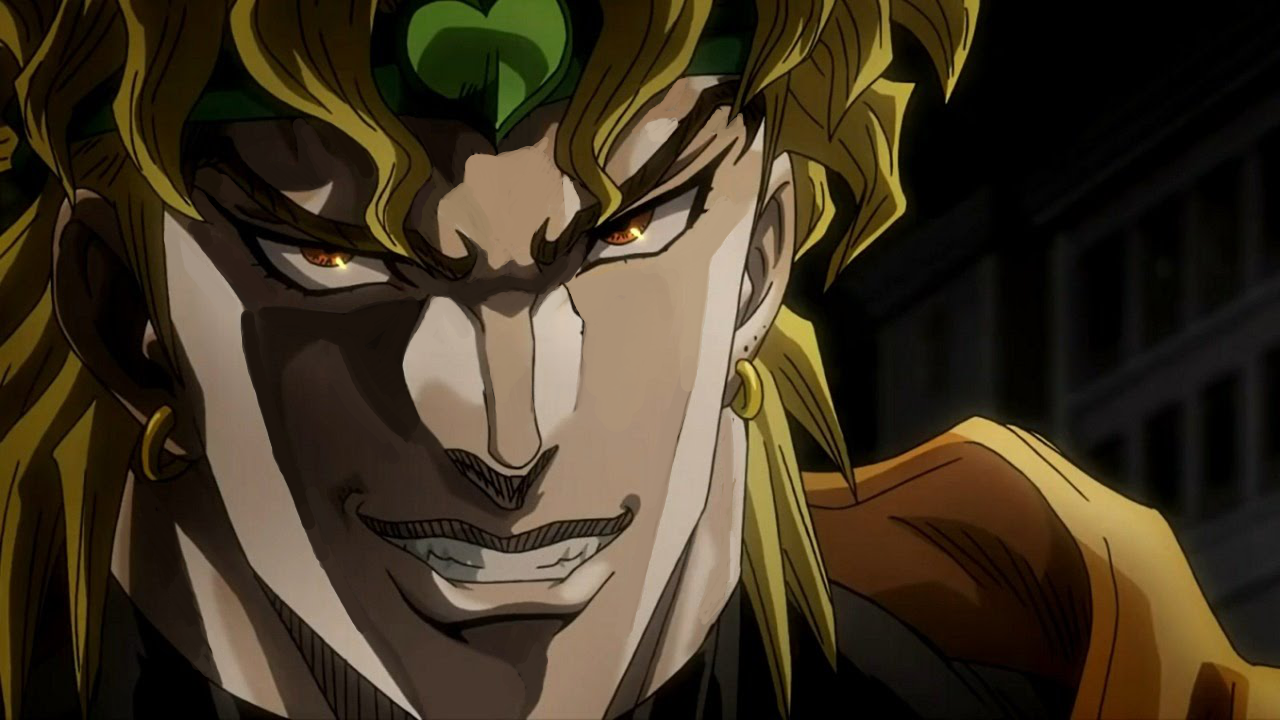
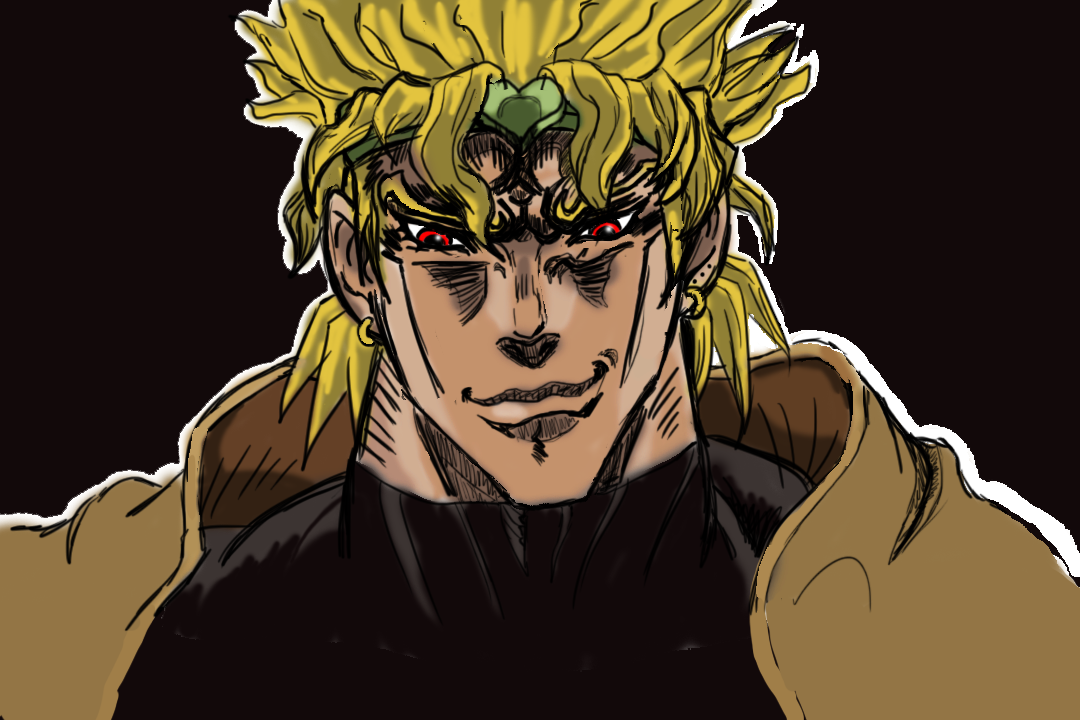
Baby we jojo's now.

diff --git a/src/scenes/game.js b/src/scenes/game.js
@@ -49,7 +49,7 @@ class Game extends Phaser.Scene {
         keyJ = this.input.keyboard.addKey(Phaser.Input.Keyboard.KeyCodes.J);
 
         // creating player object
-        this.player = new Player(this, this.playerSpriteInfo.width/2, this.middleSpawnY, spriteAtlasName, 'sprite5').setScale(scale).setOrigin(0.5).setDepth(2);
+        this.player = new Player(this, this.playerSpriteInfo.width, this.middleSpawnY, spriteAtlasName, 'sprite5').setScale(scale).setOrigin(0.5).setDepth(2);
         //create background
         this.background = this.add.tileSprite(0, uiSizeY, 1080, 720, 'ER_FantasyRugby_Background_v2').setOrigin(0).setDepth(0);
         this.add.tileSprite(0, 0, 270, 20, 'scoreboard').setOrigin(0).setDepth(0).setScale(4);
@@ -94,7 +94,7 @@ class Game extends Phaser.Scene {
         let difficultyBump = this.time.addEvent({
             delay: 10000,
             callback : () => {
-                //this.difficultyLevel++;
+                this.difficultyLevel++;
                 console.log("Difficulty increased");
                 this.playerCoolDown -= 50;
                 this.obstacleSpawn.delay -= 150;
@@ -125,15 +125,27 @@ class Game extends Phaser.Scene {
 
         this.anims.create({
             key: 'Run',
-            defaultTextureKey: spriteAtlasName,
-            frames: [{frame: 'sprite5'}],
+            defaultTextureKey: mainAtlas,
+            frames: [
+                {frame: 'JojoRun1'},
+                {frame: 'JojoRun2'},
+                {frame: 'JojoRun3'},
+                {frame: 'JojoRun4'},
+                {frame: 'JojoRun5'},
+                {frame: 'JojoRun6'},
+            ],
+            frameRate: 12,
             repeat: -1.
         });
 
         this.anims.create({
             key: 'stand_cooldown',
-            defaultTextureKey: spriteAtlasName,
-            frames: [{frame: 'sprite7'}],
+            defaultTextureKey: mainAtlas,
+            frames: [
+                {frame: 'StandRech1'},
+                {frame: 'StandRech2'},
+                {frame: 'StandRech3'},
+            ],
             duration: this.playerCoolDown,
         })
 
@@ -145,9 +157,57 @@ class Game extends Phaser.Scene {
 
         this.anims.create({
             key: 'stand_idle',
-            defaultTextureKey: spriteAtlasName,
-            frames: [{frame: 'sprite1'}]
-        })
+            defaultTextureKey: mainAtlas,
+            frames: [{frame: 'StandRech3'}]
+        });
+
+        this.anims.create({
+            key: 'Muda',
+            defaultTextureKey: mainAtlas,
+            frames: [
+                {frame: 'DioWalk1'},
+                {frame: 'DioWalk2'},
+                {frame: 'DioWalk3'},
+                {frame: 'DioWalk4'},
+                {frame: 'DioWalk5'},
+                {frame: 'DioWalk6'},
+                {frame: 'DioWalk7'},
+            ],
+            frameRate: 12,
+            repeat: -1,
+        });
+
+        this.anims.create({
+            key: 'The World',
+            defaultTextureKey: mainAtlas,
+            frames: [
+                {frame: 'DioDeath1'},
+                {frame: 'DioDeath2'},
+                {frame: 'DioDeath3'},
+                {frame: 'DioDeath4'},
+                {frame: 'DioDeath5'},
+                {frame: 'DioDeath6'},
+                {frame: 'DioDeath7'},
+                {frame: 'DioDeath8'},
+            ],
+            frameRate: 12,
+        });
+
+        this.anims.create({
+            key: 'OH NO',
+            defaultTextureKey: mainAtlas,
+            frames: [
+                {frame: 'JojoDie1'},
+                {frame: 'JojoDie2'},
+                {frame: 'JojoDie3'},
+                {frame: 'JojoDie4'},
+                {frame: 'JojoDie5'},
+                {frame: 'JojoDie6'},
+                {frame: 'JojoDie7'},
+                {frame: 'JojoDie8'},
+            ],
+            frameRate: 4,
+        });
 
         //changes that happen on death do not need to be updated often
         if (this.gameOver && (this.player.x > centerX + 4 || this.player.x < centerX - 4)) {
@@ -161,7 +221,9 @@ class Game extends Phaser.Scene {
             //update playerobject
             this.player.update();
             //if player gets hit
-            this.physics.world.collide(this.player, this.obstacleGroup, this.destroyPlayer, null, this);
+            this.physics.world.collide(this.player, this.obstacleGroup, this.destroyPlayer, (object1, object2) => {
+                return object2.canCollide;
+            }, this);
             //if the player fired
             if (this.player.projectile.fired == true) {
                 this.physics.world.collide(this.player.projectile, this.obstacleGroup, this.destroyObstacle, null, this);
@@ -175,14 +237,15 @@ class Game extends Phaser.Scene {
             if (this.player.y < game.config.height - (this.playerSpriteInfo.height * 2) - 4 || this.player.y > game.config.height - (this.playerSpriteInfo.height * 2) + 4) {
                 this.player.y += 7*this.playerSlope.y;
             } else if (this.player.x <= centerX + 4 && this.player.x >= centerX - 4){
-                //insert check to see if death animation is done before executing the rest of the tasks in this block. SHOULD FIX
-                this.background.setAlpha(1.0); //spotlight call
-                if (this.alphaValue < 0.15) {
-                    this.alphaValue += 0.001;
-                    this.restartGame();
-                }
-                if (keyJ.isDown) { //consider taking this outide of the else if chain so the user can skip the death screen.
-                    this.scene.restart();
+                if (!this.player.anims.isPlaying) {
+                    this.background.setAlpha(1.0); //spotlight call
+                    if (this.alphaValue < 0.15) {
+                        this.alphaValue += 0.001;
+                        this.restartGame();
+                    }
+                    if (keyJ.isDown) { //consider taking this outide of the else if chain so the user can skip the death screen.
+                        this.scene.restart();
+                    }
                 }
             }
         }
@@ -257,7 +320,9 @@ class Game extends Phaser.Scene {
     //object1 and object2 passed from phaser collision handler
     destroyObstacle(object1, object2) {
         this.hitEffect.play();
-        object2.destroy();
+        //object2.disableBody();
+        object2.canCollide = false;
+        object2.anims.play('The World');
         this.playerCoolDown = defaultCoolDown;
         object1.anims.play('stand_cooldown');
         object1.resetProjectile();
@@ -275,7 +340,7 @@ class Game extends Phaser.Scene {
         this.obstacleGroup.clear(true, true);
         this.background.destroy();
         this.background = this.add.tileSprite(0, uiSizeY, 1080, 720, 'Spotlight').setOrigin(0, 0).setAlpha(0.0).setDepth(0);
-        this.player.setScale(scale);
+        this.player.setScale(scale + 0.5);
 
         //calculating slope of line to center for game over.
         this.playerSlope = {
@@ -286,13 +351,13 @@ class Game extends Phaser.Scene {
             (this.playerSlope.y * this.playerSlope.y));
         this.playerSlope.x = this.playerSlope.x / magnitude;
         this.playerSlope.y = this.playerSlope.y / magnitude;
-        //Start death animation here
+        this.player.anims.play('OH NO')
     }
 
     restartGame() {
-        this.add.text(centerX , centerY , 'GAME OVER' , scoreConfig).setOrigin(.5).setDepth(2).setAlpha(this.alphaValue);
-        this.add.text(centerX , centerY + 64 , '(J) to Restart' , scoreConfig).setOrigin(.5).setDepth(2).setAlpha(this.alphaValue);
-        //this.add.tileSprite(0, uiSizeY, 1080, 720, 'dio').setOrigin(0).setAlpha(this.alphaValue/50).setDepth(1);
+        this.add.text(centerX , centerY - 100 , 'GAME OVER' , scoreConfig).setOrigin(.5).setDepth(2).setAlpha(this.alphaValue);
+        this.add.text(centerX , centerY - 36 , '(J) to Restart' , scoreConfig).setOrigin(.5).setDepth(2).setAlpha(this.alphaValue);
+        this.add.tileSprite(0, uiSizeY, 1080, 720, 'dio').setOrigin(0).setAlpha(this.alphaValue/50).setDepth(1);
     }
 }
 

diff --git a/src/scenes/menu.js b/src/scenes/menu.js
@@ -9,6 +9,7 @@ class Menu extends Phaser.Scene {
         // this.load.audio('sfx_select', './assets/blip_select12.wav');
         this.load.path = './assets/';
         this.load.atlas(spriteAtlasName, 'spritesheet_1.png', 'sprites_3.json');
+        this.load.atlas(mainAtlas, 'allSprites.png', 'allSprites.json')
         this.load.image('ER_FantasyRugby_Background_v2');
         this.load.image('dio');
         this.load.image('scoreboard');
@@ -47,14 +48,14 @@ class Menu extends Phaser.Scene {
         // will need this is there are different difficulties or different modes
         // this.rocketControlText = this.add.text(centerX , centerY + textSpacer*3.5 , 'OFF' , menuConfig).setOrigin(.5);
         keyJ = this.input.keyboard.addKey(Phaser.Input.Keyboard.KeyCodes.J);
-        this.bgmenu = this.sound.add('title', {
+        /*this.bgmenu = this.sound.add('title', {
             mute: false,
             volume: 1.0,
             rate: 1.0,
             loop: true,
         });
 
-        this.bgmenu.play();
+        this.bgmenu.play();*/
     }
 
     update() {
@@ -62,7 +63,7 @@ class Menu extends Phaser.Scene {
             // example of how to play a sound once
             // this.sound.play('sfx_select');
             // launches the next scene
-            this.bgmenu.mute = true;
+            //this.bgmenu.mute = true;
             this.scene.start("gameScene");
         }
     }

diff --git a/src/prefabs/player.js b/src/prefabs/player.js
@@ -23,7 +23,7 @@ class Projectile extends Phaser.Physics.Arcade.Sprite {
             if (this.anims.getCurrentKey() != 'stand_cooldown' || !this.anims.isPlaying) {
                 this.anims.play('stand_idle', false);
             }
-            this.y = this.player.y;
+            this.y = this.player.y - this.scene.playerSpriteInfo.height/3;
         }
     }
 
@@ -51,7 +51,7 @@ class Player extends Phaser.Physics.Arcade.Sprite {
         this.setImmovable(true);
         this.isFiring = false;
         this.scene = scene;
-        this.projectile = new Projectile(scene, x, y, this).setScale(scale).setDepth(1);
+        this.projectile = new Projectile(scene, x, y - this.scene.playerSpriteInfo.height/3, this).setScale(scale).setDepth(1);
         this.setMaxVelocity(500, 0);
         this.setCollideWorldBounds(true);
         this.playerScale = scale;

diff --git a/src/prefabs/obstacle.js b/src/prefabs/obstacle.js
@@ -7,6 +7,7 @@ class Obstacle extends Phaser.Physics.Arcade.Sprite {
         this.setVelocityX(velocity);
         this.setImmovable(true);
         this.setDepth(1);
+        this.canCollide = true;
 
         //scale enemies to their lane
         if (this.y > centerY) {
@@ -16,11 +17,12 @@ class Obstacle extends Phaser.Physics.Arcade.Sprite {
         } else {
             this.setScale(scale);
         }
+        this.anims.play('Muda');
     }
 
     update () {
-        if (this.x < 0) {
+        if ((!this.anims.isPlaying && this.anims.getCurrentKey() == 'The World') || this.x < 0) {
             this.destroy();
-        } 
+        }
     }
 }

diff --git a/src/main.js b/src/main.js
@@ -50,6 +50,7 @@ let defaultCoolDown = 1000;
 let scale = 1.5;
 let scaleAdjust = 0.5;
 let spriteAtlasName = 'prototype_atlas';
+let mainAtlas = 'sprite_atlas';
 
 function factorial(n) {
     let k = n;
